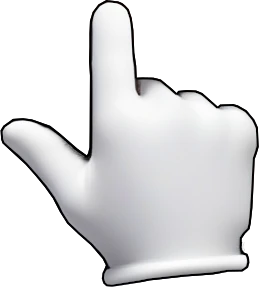
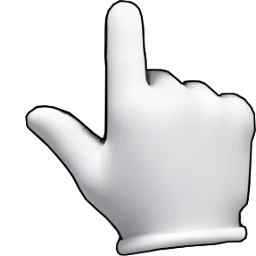
Fix KeyPresser's mipmaps

Changed region(s): [[0.0, 0.0, 0.9688, 1.0], [0.9062, 0.4062, 1.0, 0.9688]]

diff --git a/src/library_key_presser.cc b/src/library_key_presser.cc
@@ -80,9 +80,9 @@ void KeyPresser::Draw(gui::DrawContext& dctx) const {
   DrawChildren(dctx);
   auto& canvas = dctx.canvas;
   auto img = key_pressed ? PressingHandColor() : PointingHandColor();
-  float s = shortcut_button.width / img->width();
+  float s = 8.8_mm / img->height();
   canvas.save();
-  canvas.translate(3_mm, 2_mm);
+  canvas.translate(2.2_mm, 1.8_mm);
   canvas.rotate(15);
   canvas.scale(s, -s);
   canvas.drawImage(img.get(), 0, 0, kDefaultSamplingOptions);
